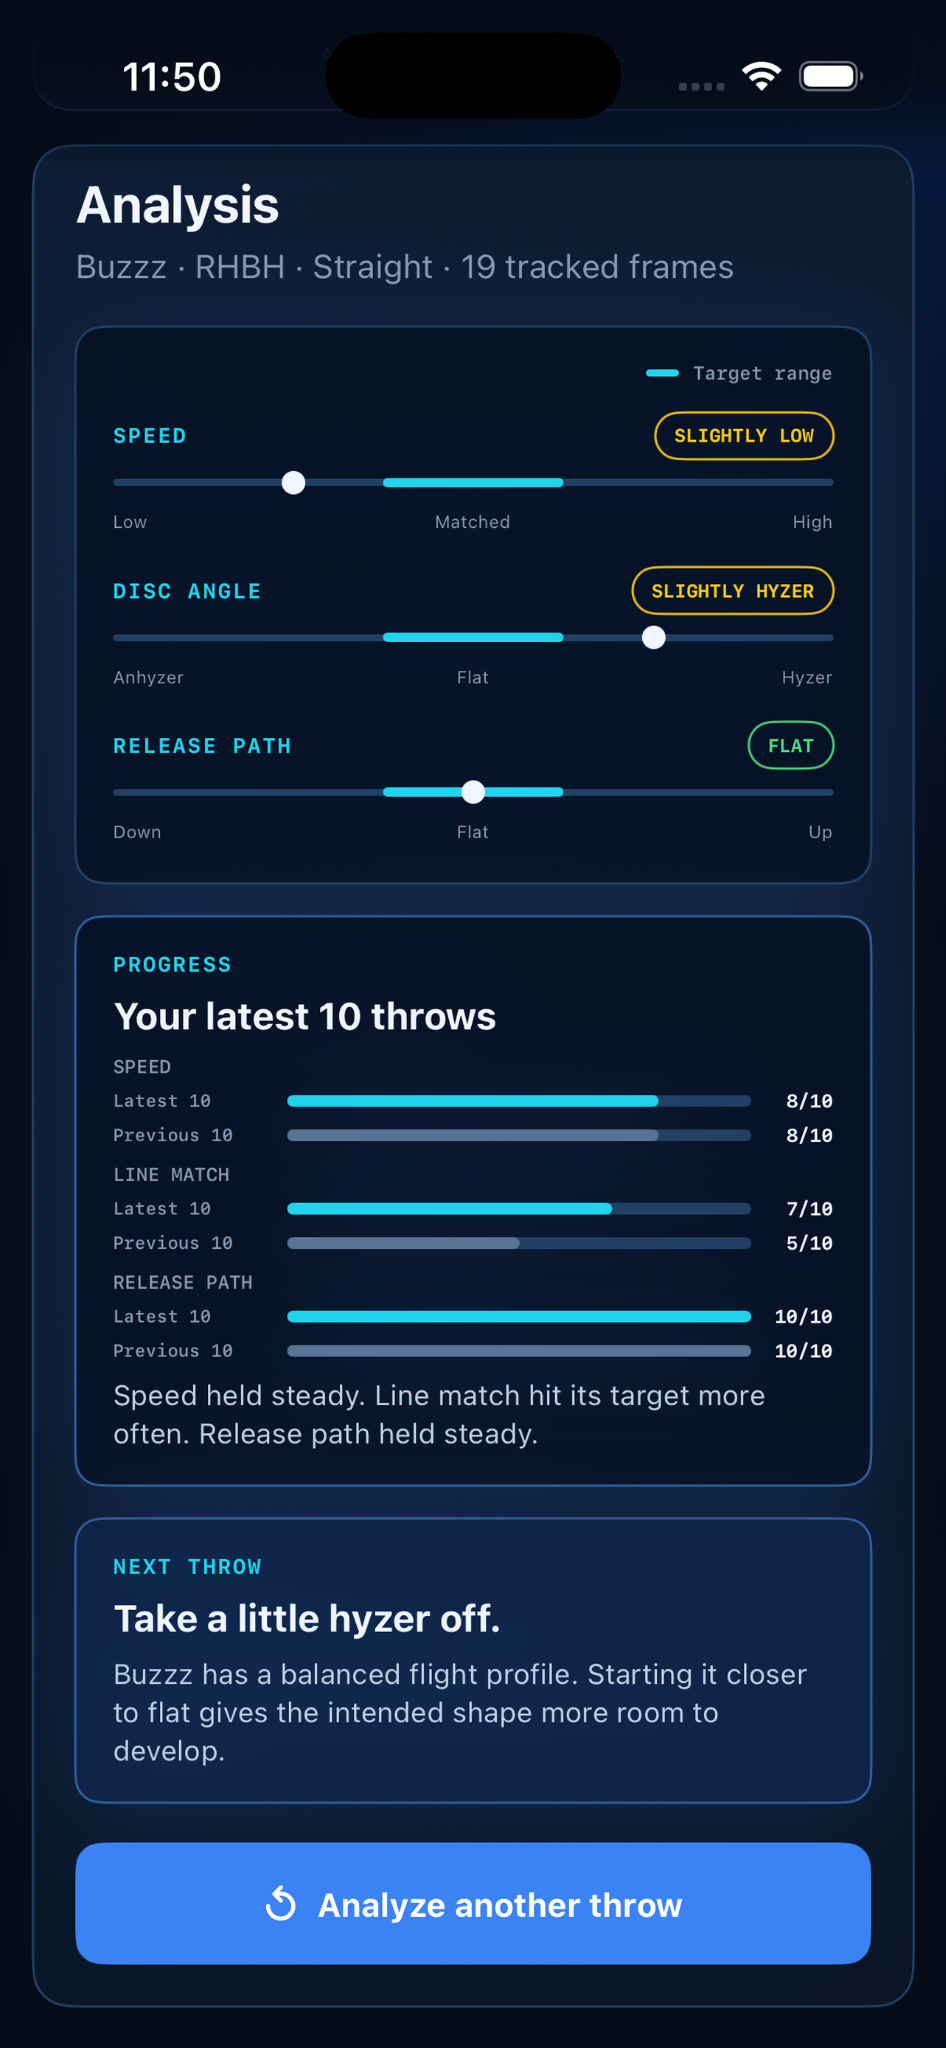
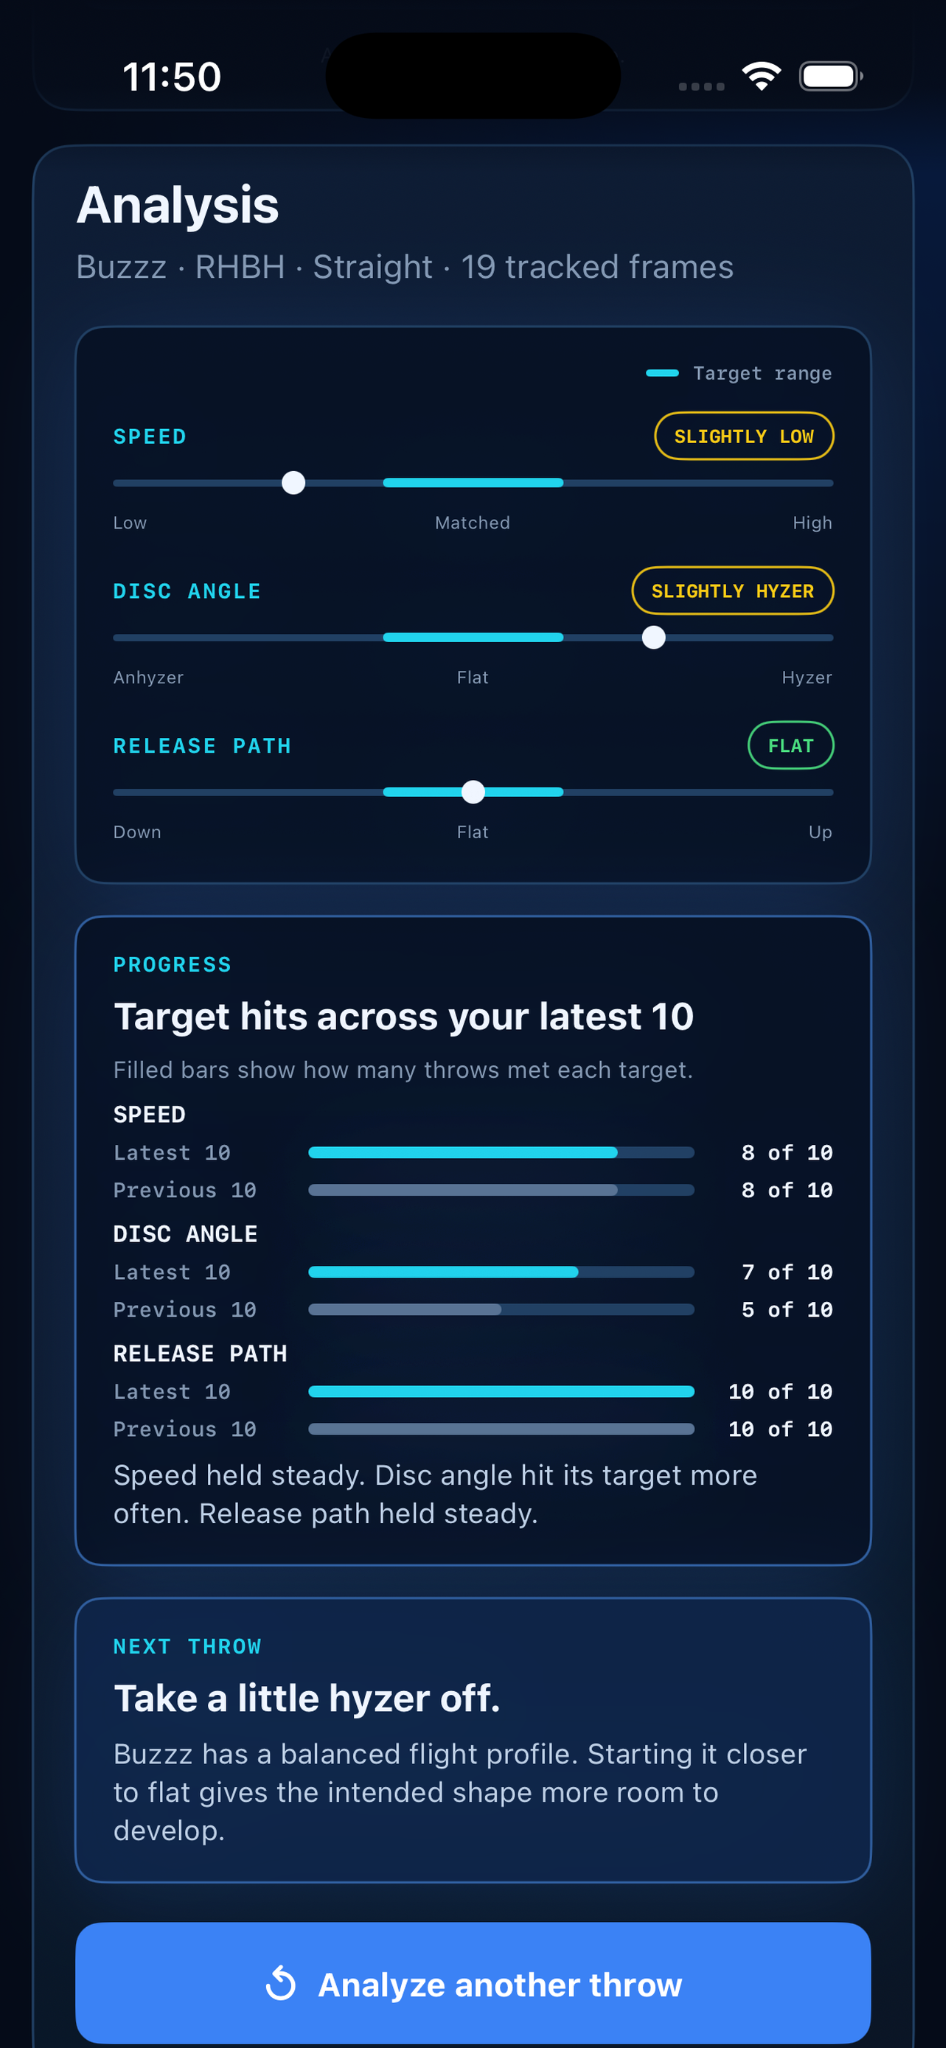
Version 1.02 update

Changed region(s): [[0.0307, 0.4688, 0.9503, 1.0], [0.9503, 0.9688, 0.981, 1.0]]

diff --git a/index.html b/index.html
@@ -3,22 +3,22 @@
 <head>
   <meta charset="utf-8">
   <meta name="viewport" content="width=device-width, initial-scale=1">
-  <title>Disc Golf Throw Analyzer for iPhone | ThrowLab</title>
-  <meta name="description" content="Analyze disc golf throws from slow-motion video. Review speed, disc angle, and release path, track progress, and get one adjustment for your next throw.">
+  <title>Disc Golf Throw Analyzer App for iPhone | ThrowLab</title>
+  <meta name="description" content="Analyze a disc golf throw from slow-motion video. See speed, disc angle, release path, progress, and one adjustment for your next throw.">
   <meta name="theme-color" content="#050b18">
   <meta name="robots" content="index, follow, max-image-preview:large">
   <link rel="canonical" href="https://throwlabapp.com/">
   <link rel="manifest" href="site.webmanifest">
   <meta property="og:type" content="website">
   <meta property="og:site_name" content="ThrowLab">
-  <meta property="og:title" content="ThrowLab | Disc Golf Throw Analyzer for iPhone">
-  <meta property="og:description" content="Review your speed, disc angle, and release path. Track each target across recent throws and see what to adjust next.">
+  <meta property="og:title" content="ThrowLab | Disc Golf Throw Analyzer App for iPhone">
+  <meta property="og:description" content="Analyze speed, disc angle, and release path from slow-motion video. Compare recent throws and see what to adjust next.">
   <meta property="og:url" content="https://throwlabapp.com/">
   <meta property="og:image" content="https://throwlabapp.com/assets/analysis-progress.png">
   <meta property="og:image:alt" content="ThrowLab analysis showing release measurements, progress, and next-throw guidance">
   <meta name="twitter:card" content="summary_large_image">
   <meta name="twitter:title" content="ThrowLab | Disc Golf Throw Analyzer">
-  <meta name="twitter:description" content="Analyze your release, track progress, and get one adjustment for your next throw.">
+  <meta name="twitter:description" content="Analyze speed, disc angle, and release path. Compare recent throws and see what to adjust next.">
   <meta name="twitter:image" content="https://throwlabapp.com/assets/analysis-progress.png">
   <link rel="icon" href="assets/app-icon.png" type="image/png">
   <link rel="apple-touch-icon" href="assets/app-icon.png">
@@ -36,7 +36,7 @@
     "operatingSystem": "iOS",
     "url": "https://throwlabapp.com/",
     "downloadUrl": "https://apps.apple.com/us/app/throwlab-disc-golf-analyzer/id6807089743",
-    "description": "A disc golf throw analyzer for iPhone that evaluates speed, disc angle, and release path from slow-motion video, tracks progress against individual targets, and provides one adjustment for the next throw.",
+    "description": "ThrowLab is a disc golf throw analyzer for iPhone. It evaluates speed, disc angle, and release path from slow-motion video, tracks each measurement against its target, and provides one adjustment for the next throw.",
     "offers": [
       {"@type": "Offer", "name": "ThrowLab Pro monthly", "price": "4.99", "priceCurrency": "USD"},
       {"@type": "Offer", "name": "ThrowLab Pro yearly", "price": "39.99", "priceCurrency": "USD"}
@@ -46,7 +46,7 @@
     "featureList": [
       "Qualitative release-speed analysis",
       "Disc-angle and release-path classification",
-      "Separate progress tracking for speed, line match, and release path",
+      "Separate progress tracking for speed, disc angle, and release path",
       "Next-throw guidance",
       "Disc bag and flight-number comparison",
       "On-device video processing"
@@ -59,7 +59,8 @@
     "@type": "FAQPage",
     "mainEntity": [
       {"@type": "Question", "name": "What does ThrowLab measure?", "acceptedAnswer": {"@type": "Answer", "text": "ThrowLab estimates release speed, disc angle, and release path from slow-motion video. It shows each reading against a target range and identifies one adjustment for the next throw."}},
-      {"@type": "Question", "name": "How does progress tracking work?", "acceptedAnswer": {"@type": "Answer", "text": "ThrowLab tracks speed, line match, and release path separately for the same disc, intended line, and throw style. It begins with groups of five throws and expands to groups of 10 after 20 qualifying throws."}},
+      {"@type": "Question", "name": "How does progress tracking work?", "acceptedAnswer": {"@type": "Answer", "text": "ThrowLab tracks target hits for speed, disc angle, and release path separately. Only throws with the same disc, intended line, and throw style are compared. Progress begins with sets of five throws and expands to sets of 10 after 20 qualifying throws."}},
+      {"@type": "Question", "name": "What do the target ranges mean?", "acceptedAnswer": {"@type": "Answer", "text": "The cyan segment on each gauge marks its target range. The speed target is based on the selected disc, the disc-angle target is based on the intended line, and the release-path target is flat."}},
       {"@type": "Question", "name": "Does ThrowLab show speed in miles per hour?", "acceptedAnswer": {"@type": "Answer", "text": "No. ThrowLab reports a qualitative speed range instead of an exact miles-per-hour reading."}},
       {"@type": "Question", "name": "Does ThrowLab support forehand and left-handed throws?", "acceptedAnswer": {"@type": "Answer", "text": "Yes. ThrowLab supports RHBH, RHFH, LHBH, and LHFH."}},
       {"@type": "Question", "name": "Can I use ThrowLab when throwing into a net?", "acceptedAnswer": {"@type": "Answer", "text": "Yes. Keep the disc visible for several frames after release."}},
@@ -94,15 +95,15 @@
       <div class="hero-copy">
         <h1 class="kicker"><span></span> Disc golf throw analyzer for iPhone</h1>
         <p class="hero-headline">Analyze your release.<em>Throw farther.</em></p>
-        <p class="hero-lead">Upload a slow-motion throw to review your speed, disc angle, and release path. Track each result over time and see one adjustment to try next.</p>
+        <p class="hero-lead">ThrowLab analyzes slow-motion video of your disc golf throw. See your speed, disc angle, and release path, compare recent throws, and get one adjustment for the next throw.</p>
         <div class="hero-actions">
           <a class="button primary" href="https://apps.apple.com/us/app/throwlab-disc-golf-analyzer/id6807089743">Start 3-day free trial</a>
           <a class="text-link" href="#progress">See progress tracking <span aria-hidden="true">↓</span></a>
         </div>
         <ul class="trust-list">
-          <li>Works in a net or on the field</li>
-          <li>More than 2,400 discs</li>
-          <li>Videos stay on your iPhone</li>
+          <li>Net and field throws</li>
+          <li>2,400+ disc catalog</li>
+          <li>On-device video processing</li>
         </ul>
       </div>
       <div class="hero-visual clean">
@@ -119,19 +120,19 @@
     <section class="section progress-section" id="progress">
       <div class="shell progress-layout">
         <div class="progress-copy">
-          <p class="kicker">Progress by release</p>
-          <h2>See what is improving—and what is not.</h2>
-          <p>ThrowLab tracks three results separately. A strong result in one area cannot hide a miss in another.</p>
+          <p class="kicker">Progress</p>
+          <h2>Track each part of your release.</h2>
+          <p>See how many recent throws reached the target for speed, disc angle, and release path. Each measurement is tracked separately.</p>
           <ul class="plain-points">
             <li><strong>Speed</strong><span>How often your release reaches the target range for the selected disc.</span></li>
-            <li><strong>Line match</strong><span>How often your disc angle matches the intended line.</span></li>
+            <li><strong>Disc angle</strong><span>How often the release angle reaches the target for your intended line.</span></li>
             <li><strong>Release path</strong><span>How often the disc leaves on a flat path.</span></li>
           </ul>
-          <p class="feature-note">Progress starts with your latest five throws versus the previous five. Once you have 20 qualifying throws, it expands to sets of 10.</p>
+          <p class="feature-note">Progress starts with your latest five qualifying throws. At 10 throws, it compares the latest five with the previous five. At 20, it moves to sets of 10.</p>
         </div>
         <div class="progress-proof">
           <div class="progress-window">
-            <picture><source srcset="assets/analysis-progress.webp" type="image/webp"><img src="assets/analysis-progress.png" alt="Progress comparison for speed, line match, and release path" width="946" height="2048" loading="eager" decoding="async"></picture>
+            <picture><source srcset="assets/analysis-progress.webp" type="image/webp"><img src="assets/analysis-progress.png" alt="ThrowLab progress comparing target hits for speed, disc angle, and release path" width="946" height="2048" loading="eager" decoding="async"></picture>
           </div>
           <p>Only throws with the same disc, intended line, and throw style are compared.</p>
         </div>
@@ -140,9 +141,9 @@
 
     <section class="section shell" id="release">
       <div class="section-heading compact">
-        <p class="kicker">Release analysis</p>
-        <h2>Three readings. Three clear targets.</h2>
-        <p class="section-intro">Each slider shows the measured result and its target range. ThrowLab uses qualitative ranges instead of claiming an exact miles-per-hour reading from video.</p>
+        <p class="kicker">Throw analysis</p>
+        <h2>Speed, disc angle, and release path.</h2>
+        <p class="section-intro">The marker shows the measured result, and the cyan segment marks the target range. Speed is reported as a range rather than an exact miles-per-hour estimate.</p>
       </div>
       <div class="metric-grid">
         <article class="metric-card"><span class="metric-index">01</span><div class="metric-light yellow"></div><h3>Speed</h3><p>See whether your release speed is low, matched, or high for the selected disc.</p></article>
@@ -153,28 +154,31 @@
 
     <section class="section how-section" id="how-it-works">
       <div class="shell">
-        <div class="section-heading compact"><p class="kicker">How it works</p><h2>From video to a useful next throw.</h2></div>
-        <ol class="steps horizontal-steps">
+        <div class="section-heading compact"><p class="kicker">How it works</p><h2>Analyze a throw in four steps.</h2></div>
+        <div class="steps-layout current-steps">
+          <figure class="phone phone-finder"><picture><source srcset="assets/capture-home.webp" type="image/webp"><img src="assets/capture-home.png" alt="ThrowLab capture screen for choosing a disc, throw style, intended line, and slow-motion video" width="946" height="2048" loading="lazy" decoding="async"></picture></figure>
+          <ol class="steps">
           <li><span>01</span><div><h3>Set the throw</h3><p>Choose your disc, throw style, and intended line.</p></div></li>
           <li><span>02</span><div><h3>Upload the video</h3><p>Use a trimmed, landscape slow-motion clip with the full throw visible.</p></div></li>
           <li><span>03</span><div><h3>Tap the disc</h3><p>Find a clear mid-flight frame and tap the disc to begin tracking.</p></div></li>
           <li><span>04</span><div><h3>Review the release</h3><p>See the three readings, progress, and one adjustment for the next throw.</p></div></li>
-        </ol>
+          </ol>
+        </div>
       </div>
     </section>
 
     <section class="section discs-section" id="discs">
       <div class="shell">
         <div class="section-heading compact">
-          <p class="kicker">Your discs</p>
-          <h2>Keep your bag together. Compare flight numbers when you need to.</h2>
+          <p class="kicker">Discs</p>
+          <h2>Manage your bag and compare discs.</h2>
           <p class="section-intro">Choose a disc from My Bag before a throw, or switch to Compare to find two alternatives with the change you want.</p>
         </div>
         <div class="dual-phones">
           <figure class="phone phone-secondary"><picture><source srcset="assets/discs-bag.webp" type="image/webp"><img src="assets/discs-bag.png" alt="ThrowLab My Bag screen with saved discs and flight numbers" width="946" height="2048" loading="lazy" decoding="async"></picture></figure>
           <div class="disc-copy">
             <div class="flight-numbers"><span><b>5</b><small>Speed</small></span><span><b>4</b><small>Glide</small></span><span><b>-1</b><small>Turn</small></span><span><b>1</b><small>Fade</small></span></div>
-            <h3>Compare the change you care about.</h3>
+            <h3>Choose the flight-number change.</h3>
             <p>Look for lower or higher speed, lower or higher glide, more or less turn, or more or less fade. Each result includes the manufacturer, flight numbers, and a short explanation.</p>
           </div>
           <figure class="phone phone-secondary"><picture><source srcset="assets/disc-compare.webp" type="image/webp"><img src="assets/disc-compare.png" alt="ThrowLab Disc Compare screen showing the selected disc and suggested alternatives" width="946" height="2048" loading="lazy" decoding="async"></picture></figure>
@@ -186,7 +190,7 @@
       <div class="history-layout">
         <div class="history-copy">
           <p class="kicker">Throw history</p>
-          <h2>Find the throws behind the trend.</h2>
+          <h2>Review and filter saved throws.</h2>
           <p>Every completed analysis is saved on your iPhone. Filter by disc, date, intended line, or throw style to review the releases used in your progress history.</p>
         </div>
         <figure class="phone phone-history"><picture><source srcset="assets/history-current.webp" type="image/webp"><img src="assets/history-current.png" alt="ThrowLab throw history filtered by disc, date, intended line, and throw style" width="946" height="2048" loading="lazy" decoding="async"></picture></figure>
@@ -195,7 +199,7 @@
 
     <section class="section accuracy-section" id="accuracy">
       <div class="shell accuracy-layout">
-        <div><p class="kicker">Best results</p><h2>Give ThrowLab a clear view of the release.</h2><p class="section-intro">Video quality matters. Keep the throw and the disc visible through the first part of flight.</p></div>
+        <div><p class="kicker">Recording setup</p><h2>How to record a throw for analysis.</h2><p class="section-intro">Keep the full throw visible and leave room for the disc to travel after release.</p></div>
         <div class="check-grid">
           <div><span>✓</span><strong>Slow motion</strong><small>240 fps is recommended. 120 fps is supported.</small></div>
           <div><span>✓</span><strong>Landscape video</strong><small>Leave room for the throw and early flight.</small></div>
@@ -207,12 +211,12 @@
     </section>
 
     <section class="section shell faq-section">
-      <div class="section-heading compact"><p class="kicker">Common questions</p><h2>What to know before your first throw.</h2></div>
+      <div class="section-heading compact"><p class="kicker">ThrowLab</p><h2>Frequently asked questions.</h2></div>
       <div class="faq">
         <details><summary>What does ThrowLab measure?</summary><p>ThrowLab estimates speed, disc angle, and release path from slow-motion video. It shows each reading against a target range and identifies one adjustment for the next throw.</p></details>
-        <details><summary>How does progress tracking work?</summary><p>Speed, line match, and release path are tracked separately for the same disc, intended line, and throw style. ThrowLab begins with groups of five throws and expands to groups of 10 after 20 qualifying throws.</p></details>
+        <details><summary>How does progress tracking work?</summary><p>ThrowLab tracks target hits for speed, disc angle, and release path separately. Only throws with the same disc, intended line, and throw style are compared. Progress begins with sets of five throws and expands to sets of 10 after 20 qualifying throws.</p></details>
         <details><summary>Does ThrowLab show speed in miles per hour?</summary><p>No. ThrowLab uses a qualitative speed range instead of claiming an exact miles-per-hour reading.</p></details>
-        <details><summary>What do the target ranges mean?</summary><p>The cyan segment marks the target range. Speed is based on the selected disc, disc angle is based on the intended line, and release path targets a flat release.</p></details>
+        <details><summary>What do the target ranges mean?</summary><p>The cyan segment on each gauge marks its target range. The speed target is based on the selected disc, the disc-angle target is based on the intended line, and the release-path target is flat.</p></details>
         <details><summary>Does ThrowLab support forehand and left-handed throws?</summary><p>Yes. ThrowLab supports RHBH, RHFH, LHBH, and LHFH.</p></details>
         <details><summary>Can I use ThrowLab when throwing into a net?</summary><p>Yes. The disc does not need to land on camera. Keep it visible for several frames after release.</p></details>
         <details><summary>Does ThrowLab analyze body mechanics?</summary><p>No. ThrowLab focuses on the disc at and immediately after release. It does not score footwork, reach-back, brace, or hip rotation.</p></details>
@@ -228,7 +232,7 @@
     <section class="download-section" id="download">
       <div class="shell download-card">
         <img src="assets/app-icon.png" alt="ThrowLab app icon" width="112" height="112" loading="lazy">
-        <div><p class="kicker">ThrowLab Pro for iPhone</p><h2>See the release. Track the change.</h2><p>Try every analysis feature free for 3 days. Continue for $4.99/month or $39.99/year.</p><p class="download-note">Cancel at least 24 hours before the trial ends in Settings under your Apple Account and Subscriptions.</p></div>
+        <div><p class="kicker">ThrowLab Pro</p><h2>Download ThrowLab for iPhone.</h2><p>Try every analysis feature free for 3 days. Continue for $4.99/month or $39.99/year.</p><p class="download-note">Cancel at least 24 hours before the trial ends in Settings under your Apple Account and Subscriptions.</p></div>
         <a class="button primary" href="https://apps.apple.com/us/app/throwlab-disc-golf-analyzer/id6807089743">Get ThrowLab on the App Store</a>
       </div>
     </section>

diff --git a/styles.css b/styles.css
@@ -213,6 +213,7 @@ h1, h2, h3, p { margin-top: 0; }
 .progress-proof > p { margin: 16px 4px 0; color: var(--muted); font-size: .84rem; line-height: 1.5; }
 
 .how-section { border-block: 1px solid rgba(45, 86, 134, .42); background: #07101f; }
+.current-steps { margin-top: 0; }
 .horizontal-steps { display: grid; grid-template-columns: repeat(4, 1fr); gap: 18px; }
 .horizontal-steps li {
   display: block;
